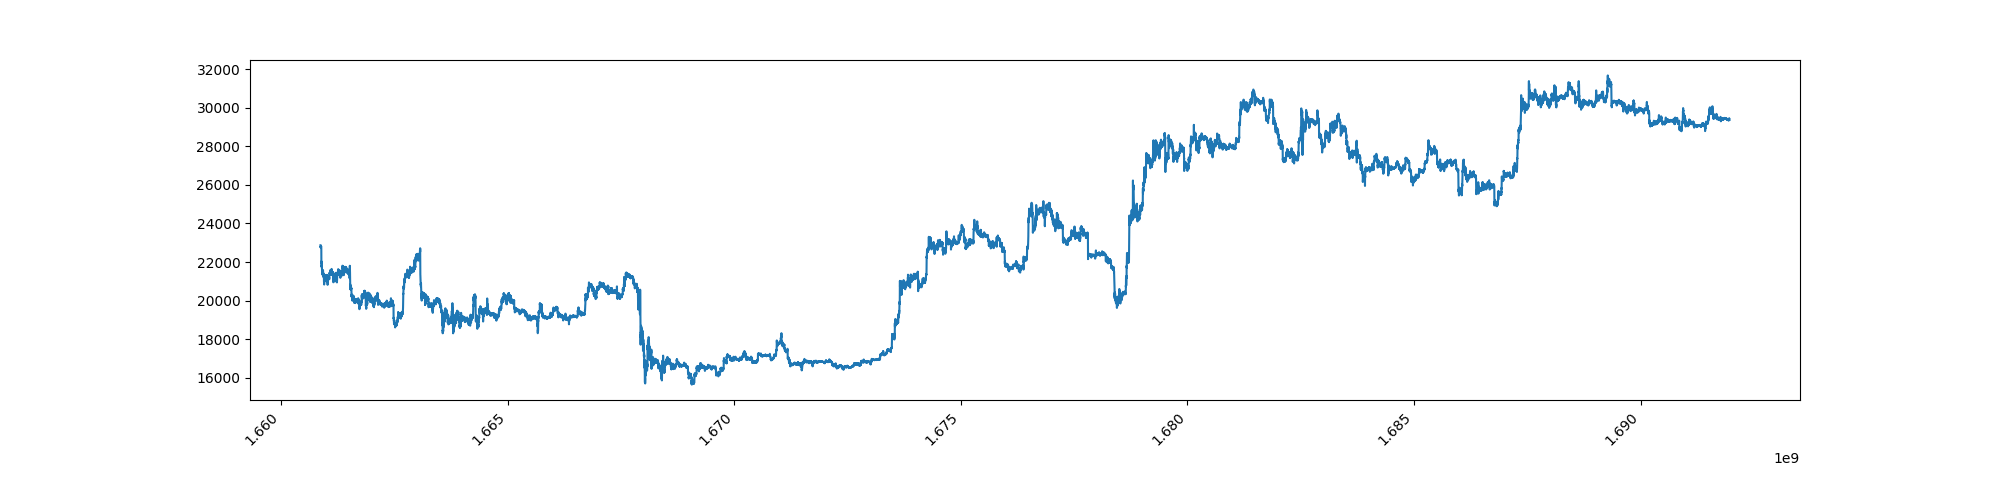
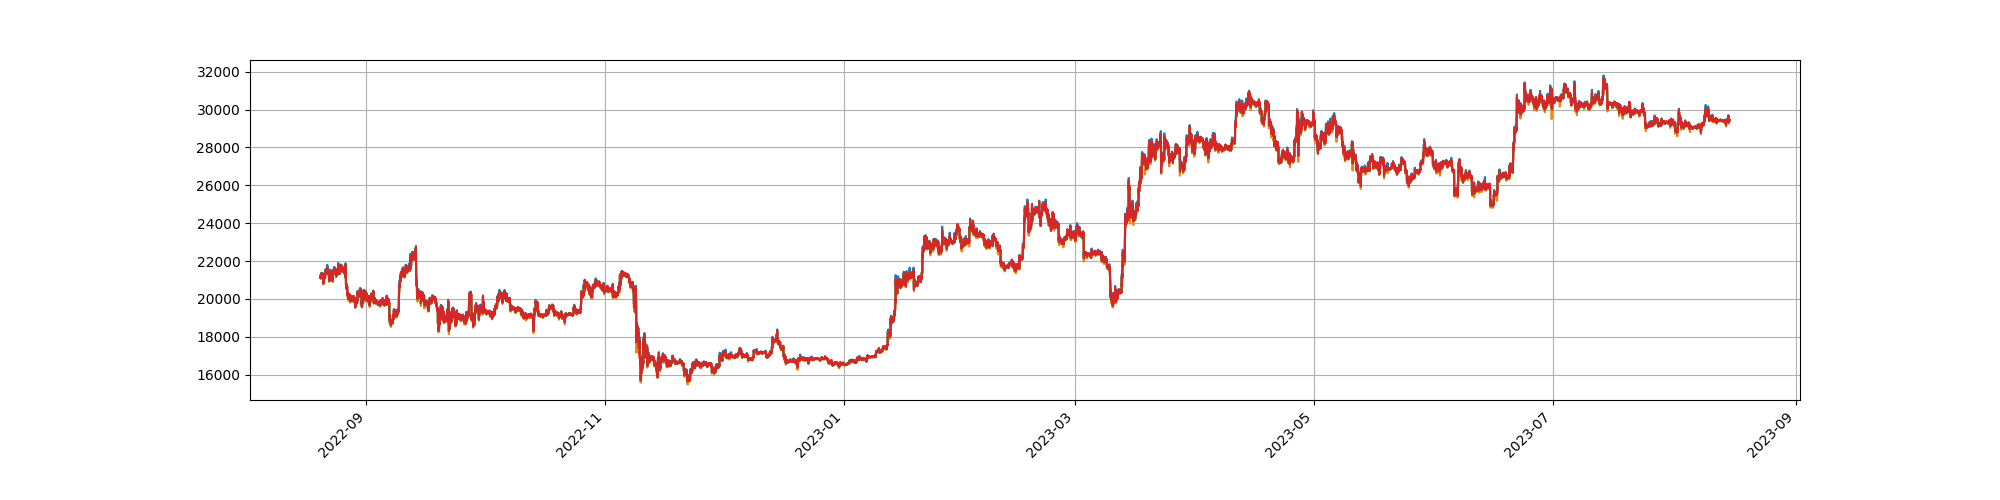
fix price emulation

diff --git a/src/clients/backtester_client.py b/src/clients/backtester_client.py
@@ -8,13 +8,19 @@ import datetime as dt
 import pandas as pd
 import math
 
-PRICE_ITERATIONS = 20
+PART = 20
+
+
+PRICE_ITERATIONS = PART * 3
 
 
 class BacktesterClient(AbstractClient):
-    def __init__(self, data: pd.DataFrame, interval="1m"):
+    def __init__(
+        self, data: pd.DataFrame, data_exact: pd.DataFrame = None, interval="1m"
+    ):
         self.index = 0
         self.data = data
+        self.data_exact = data_exact
 
         self.using_amount = 0
         self.target_amount = 100
@@ -29,7 +35,7 @@ class BacktesterClient(AbstractClient):
         self.min_notional = 10
         self.max_notional = 9000000
 
-        self.comission = 0.0001
+        self.comission = 0.0005
         # self.comission = 0
         self.up_stops = set()
         self.bottom_stops = set()
@@ -44,8 +50,8 @@ class BacktesterClient(AbstractClient):
     def check_stops(self):
         # return
         for i in range(PRICE_ITERATIONS):
-            super().check_stops()
             self.price_iteration = i
+            super().check_stops()
         self.price_iteration = 0
 
     def current(self) -> dict:
@@ -68,12 +74,69 @@ class BacktesterClient(AbstractClient):
         return result
 
     def _price(self) -> float:
-        # return self.data.iloc[self.index].close
-        return (
-            self.data.iloc[self.index].close * (PRICE_ITERATIONS - self.price_iteration)
-            + self.data.iloc[min(self.data.shape[0] - 1, self.index + 1)].close
-            * self.price_iteration
-        ) / PRICE_ITERATIONS
+        if self.data_exact:
+            left = self.data.iloc[self.index]
+            right = self.data.iloc[min(self.data.shape[0] - 1, self.index + 1)]
+            interval = self.data_exact[
+                (self.data_exact.time >= left.time)
+                & (self.data_exact.time <= right.time)
+            ]
+            sz = interval.shape[0]
+            if sz == 0:
+                return right.close
+            else:
+                return interval.iloc[
+                    self.price_iteration * (sz - 1) // PRICE_ITERATIONS
+                ].close
+        # except Exception as e:
+        #     print(e)
+        #     print()
+
+        #     print("self.price_iteration", self.price_iteration)
+        #     print("sz", sz)
+        #     print("PRICE_ITERATIONS", PRICE_ITERATIONS)
+        #     raise e
+
+        # return (
+        #     self.data.iloc[self.index].close * (PRICE_ITERATIONS - self.price_iteration)
+        #     + self.data.iloc[min(self.data.shape[0] - 1, self.index + 1)].close
+        #     * self.price_iteration
+        # ) / PRICE_ITERATIONS
+
+        cur = self.data.iloc[self.index]
+        nxt = self.data.iloc[min(self.data.shape[0] - 1, self.index + 1)]
+        if cur.close < nxt.close:
+            if self.price_iteration < PART:
+                return (
+                    self.price_iteration * nxt.low
+                    + (PART - self.price_iteration) * cur.close
+                ) / PART
+            elif self.price_iteration < 2 * PART:
+                return (
+                    (self.price_iteration - PART) * nxt.high
+                    + (2 * PART - self.price_iteration) * nxt.low
+                ) / PART
+            else:
+                return (
+                    (self.price_iteration - 2 * PART) * nxt.close
+                    + (3 * PART - self.price_iteration) * nxt.high
+                ) / PART
+        else:
+            if self.price_iteration < PART:
+                return (
+                    self.price_iteration * nxt.high
+                    + (PART - self.price_iteration) * cur.close
+                ) / PART
+            elif self.price_iteration < 2 * PART:
+                return (
+                    (self.price_iteration - PART) * nxt.low
+                    + (2 * PART - self.price_iteration) * nxt.high
+                ) / PART
+            else:
+                return (
+                    (self.price_iteration - 2 * PART) * nxt.close
+                    + (3 * PART - self.price_iteration) * nxt.low
+                ) / PART
 
     def _order(self, quantity: str) -> None:
         quantity: float = float(quantity)

diff --git a/src/strategies/reversals_v2_strategy.py b/src/strategies/reversals_v2_strategy.py
@@ -4,7 +4,7 @@ from . import AbstractStrategy, Action
 
 
 class ReversalsV2Strategy(AbstractStrategy):
-    def __init__(self, window: int = 10, position_ttl=120, threshold=0.2):
+    def __init__(self, window: int = 10, position_ttl=12000, threshold=0.2):
         self.window = window
         self._up_stops = []
         self._bottom_stops = []
@@ -39,6 +39,7 @@ class ReversalsV2Strategy(AbstractStrategy):
             self.long_entry = None
             self.position_ttl -= 1
             if not self.position_ttl:
+                print("oh(")
                 return Action.NONE
             return None
         self.position_ttl = 0
@@ -52,7 +53,7 @@ class ReversalsV2Strategy(AbstractStrategy):
 
         size = data.shape[0]
 
-        if size < 50:
+        if size < 100:
             return None
 
         high: pd.Series = data.iloc[-1].high
@@ -73,33 +74,56 @@ class ReversalsV2Strategy(AbstractStrategy):
 
         # print("hello")
 
-        if _max - _min > _min * 0.005 and low < _min and size - min_index < self.window:
+        if (
+            _max - _min > _min * 0.001
+            and low < _min
+            and 5 < size - min_index < self.window
+        ):
             # for i in range(size):
             #     print(data.iloc[i])
             self.short_entry = None
             self.long_entry = high
             # print("long", high)
-            self.entry_ttl = 3
+            self.entry_ttl = self.window
         elif (
-            _max - _min > _min * 0.005
+            _max - _min > _min * 0.001
             and high > _max
-            and size - max_index < self.window
+            and 5 < size - max_index < self.window
         ):
             # for i in range(size):
             #     print(data.iloc[i])
             self.short_entry = low
             self.long_entry = None
             # print("short", low)
-            self.entry_ttl = 3
+            self.entry_ttl = self.window
 
         if self.long_entry:
-            self._up_stops = [_max - (_max - _min) * self.threshold]
+            # _min = data.iloc[max_index:].low.min()
             self._bottom_stops = [_min]
-
-        if self.short_entry:
-            # self.entry_ttl -= 1
-            self._up_stops = [_max]
-            self._bottom_stops = [_min + (_max - _min) * self.threshold]
+            if min_index < self.window:
+                self.long_entry = None
+            elif self.long_entry >= _max or self.long_entry <= _min:
+                self.long_entry = None
+            elif (self.long_entry - _min) * 5 > (_max - self.long_entry):
+                self.long_entry = None
+            else:
+                # _min = max(_min, self.long_entry * 0.999)
+                _max = self.long_entry + (self.long_entry - _min) * 5
+                self._bottom_stops = [_min]
+                self._up_stops = [_max]
+        elif self.short_entry:
+            # _max = data.iloc[min_index:].high.max()
+            if max_index < self.window:
+                self.short_entry = None
+            elif self.short_entry >= _max or self.short_entry <= _min:
+                self.short_entry = None
+            elif (_max - self.short_entry) * 5 > (self.short_entry - _min):
+                self.short_entry = None
+            else:
+                # _max = min(_max, self.short_entry * 1.001)
+                _min = self.short_entry - (_max - self.short_entry) * 5
+                self._bottom_stops = [_min]
+                self._up_stops = [_max]
 
             # if self.long_entry and close > self.long_entry:
             #     if _max - close < (close - _min) * 1:

diff --git a/src/scripts/backtest.py b/src/scripts/backtest.py
@@ -14,7 +14,7 @@ from src.strategies.manual_strategy import ManualStrategy
 from src.strategies.mae_strategy import MAEStrategy
 from src.strategies.reversals_strategy import ReversalsStrategy
 from src.strategies.reversals_v2_strategy import ReversalsV2Strategy
-from . import Runner
+from . import Runner, save_plot
 
 
 logging.basicConfig()
@@ -26,36 +26,61 @@ INTERVAL = f"{INTERVAL_MINUTES}m"
 
 WINDOW_SIZE = 120
 
-DAYS = 30 * 12
-STEP = 30
+HOURS = 24 * 30 * 12
+STEP = 24 * 30
 # strategy = RandomStrategy()
 # strategy = MAEStrategy()
 # strategy = MAEStrategy()
 
+USE_CACHE = True
+SAVE = True
+
 
 def main():
-    api_key = os.environ["BINANCE_API_KEY"]
-    api_secret = os.environ["BINANCE_SECRET_KEY"]
-    # logging.info(api_key)
-    # logging.info(api_secret)
+    if not USE_CACHE:
+        api_key = os.environ["BINANCE_API_KEY"]
+        api_secret = os.environ["BINANCE_SECRET_KEY"]
+        # logging.info(api_key)
+        # logging.info(api_secret)
 
-    binance_client = BinanceClient(
-        api_key=api_key, api_secret=api_secret, interval=INTERVAL, testnet=False
+        binance_client = BinanceClient(
+            api_key=api_key, api_secret=api_secret, interval="15m", testnet=False
+        )
+
+        binance_client_exact = BinanceClient(
+            api_key=api_key, api_secret=api_secret, interval="1s", testnet=False
+        )
+
+        current: dt.datetime = dt.datetime.now()
+        # current = dt.datetime(year=2022, month=7, day=28)
+        frames = []
+        # exact_frames = []
+        for i in tqdm.tqdm(range(0, HOURS, STEP)):
+            start: dt.datetime = current - dt.timedelta(hours=HOURS - i)
+            end: dt.datetime = current - dt.timedelta(hours=HOURS - i - STEP)
+            frame = binance_client.load(start=start, end=end)
+            # exact_frame = binance_client_exact.load(start=start, end=end)
+            # logging.info(f"FRAME SHAPE {frame.shape}")
+            frames.append(frame)
+            # exact_frames.append(exact_frame)
+
+        data = pd.concat(frames)
+        # exact_data = pd.concat(exact_frames)
+        if SAVE:
+            data.to_csv("data.csv")
+            # exact_data.to_csv("exact_data.csv")
+    else:
+        data = pd.read_csv("data.csv")
+        # exact_data = pd.read_csv("exact_data.csv")
+
+    # print(data.time.to_list())
+    save_plot(
+        indices=[dt.datetime.fromtimestamp(t) for t in data.time],
+        values=[data.high, data.low, data.close, data.open],
+        filename="BTC.png",
     )
-
-    current: dt.datetime = dt.datetime.now()
-    # current = dt.datetime(year=2022, month=11, day=1)
-    frames = []
-    for i in tqdm.tqdm(range(0, DAYS, STEP)):
-        start: dt.datetime = current - dt.timedelta(days=DAYS - i)
-        end: dt.datetime = current - dt.timedelta(days=DAYS - i - STEP)
-        frame = binance_client.load(start=start, end=end)
-        # logging.info(f"FRAME SHAPE {frame.shape}")
-        frames.append(frame)
-
-    data = pd.concat(frames)
-    Runner._save_graph(indices=data.time, values=[data.close], filename="BTC.png")
     print(data.shape)
+    # print(exact_data.shape)
     # logging.info(f"DATA SHAPE {data.shape}")
 
     for strategy in [

diff --git a/src/scripts/__init__.py b/src/scripts/__init__.py
@@ -8,6 +8,21 @@ from src.clients import AbstractClient
 from src.strategies import AbstractStrategy, Action
 
 
+def save_plot(
+    indices: tp.List[dt.datetime],
+    values: tp.List[list[float]],
+    filename: str,
+):
+    fig, ax = plt.subplots(nrows=1, ncols=1, figsize=(20, 5))
+    ax.grid(True)
+    fig.autofmt_xdate(rotation=45)
+    for values_i in values:
+        ax.plot(indices, values_i)
+
+    fig.savefig(filename)
+    plt.close(fig)
+
+
 class Runner:
     def __init__(
         self,
@@ -15,8 +30,8 @@ class Runner:
         strategy: AbstractStrategy,
         window: dt.timedelta,
         graph_filename: str = "tmp.png",
-        long: float = 0.5,
-        short: float = -0.5,
+        long: float = 0.9,
+        short: float = -0.9,
     ):
         self.client: AbstractClient = client
         self.strategy: AbstractStrategy = strategy
@@ -61,6 +76,8 @@ class Runner:
         stocks: tp.List[dict] = None,
     ):
         fig, ax = plt.subplots(nrows=1, ncols=1, figsize=(20, 5))
+
+        ax.grid(True)
         fig.autofmt_xdate(rotation=45)
         top_money = max(values[0])
         bottom_money = min(values[0])

diff --git a/src/clients/__init__.py b/src/clients/__init__.py
@@ -79,15 +79,18 @@ class AbstractClient:
                     self.up_stops = set()
                     self.bottom_stops = set()
         else:
+            if self.price_iteration != 0:
+                return
+
             for buy in self.buy_up:
                 if price > buy:
-                    self.set_using_part(0.5)  # todo
+                    self.set_using_part(0.9)  # todo
                     self.buy_up = set()
                     self.sell_bottom = set()
 
             for sell in self.sell_bottom:
                 if price < sell:
-                    self.set_using_part(-0.5)  # todo
+                    self.set_using_part(-0.9)  # todo
                     self.buy_up = set()
                     self.sell_bottom = set()
 

diff --git a/src/scripts/backtest_with_train.py b/src/scripts/backtest_with_train.py
@@ -63,7 +63,7 @@ def main():
         action: Action = STRATEGY.action(data)
 
         if action == Action.LONG:
-            client.set_using_part(0.5)
+            client.set_using_part(0.9)
         elif action == Action.SHORT:
             client.set_using_part(0)
         elif action == Action.NONE:
